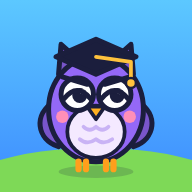
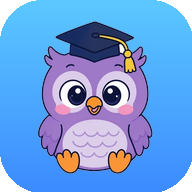
Pratinjau tautan (Open Graph) untuk WhatsApp dkk. + ikon aplikasi Uli baru
Claude-Session: https://claude.ai/code/session_01CYnEYfHgLVhLvxdkxWB87V

diff --git a/index.html b/index.html
@@ -5,6 +5,17 @@
 <title>JELAS · Jelajah Kelas</title>
 <meta name="description" content="JELAS (Jelajah Kelas): belajar seru sambil main, dari TK sampai SMA/SMK. Guru bisa memantau perkembangan murid.">
 <meta name="theme-color" content="#3D8BFF">
+<meta property="og:type" content="website">
+<meta property="og:site_name" content="JELAS">
+<meta property="og:title" content="JELAS · Jelajah Kelas">
+<meta property="og:description" content="Belajar seru sambil main, dari TK sampai SMA/SMK. Gratis untuk murid dan guru.">
+<meta property="og:url" content="https://jelajahkelas.github.io/">
+<meta property="og:image" content="https://jelajahkelas.github.io/icons/og.png?v=1">
+<meta property="og:image:width" content="1200">
+<meta property="og:image:height" content="630">
+<meta property="og:image:alt" content="Uli si burung hantu, maskot JELAS">
+<meta name="twitter:card" content="summary_large_image">
+<meta name="twitter:image" content="https://jelajahkelas.github.io/icons/og.png?v=1">
 <link rel="manifest" href="manifest.webmanifest">
 <link rel="icon" type="image/png" href="icons/icon-192.png">
 <link rel="apple-touch-icon" href="icons/icon-192.png">
@@ -3555,7 +3566,7 @@ html[data-theme=malam] .plstick{background:#0a0f1e}
 <div class="syncpill" id="syncPill" hidden></div>
 <div class="toast" id="toast" hidden></div>
 
-<script src="av.js?v=175"></script>
+<script src="av.js?v=176"></script>
 <script>
 /* ---------- visual assets ---------- */
 const INK='#1B1E3D';
@@ -10458,7 +10469,7 @@ function folBind(root,list,after){root.querySelectorAll('[data-follow]').forEach
   try{await folDo(f,on);if(on){try{sfx.ok()}catch(_){}toast('team',`Kamu mengikuti ${f.name}.`)}b.outerHTML=folBtn(f,b.classList.contains('sm'));folBind(root,list,after);after&&after()}catch(err){b.disabled=false;toast('lock',fbErr(err))}})}
 const shareIcon='<svg viewBox="0 0 24 24" width="24" height="24" aria-hidden="true"><path d="M12 3 V15 M7 8 L12 3 L17 8 M5 13 V19 C5 20 6 21 7 21 H17 C18 21 19 20 19 19 V13" fill="none" stroke="currentColor" stroke-width="2.4" stroke-linecap="round" stroke-linejoin="round"/></svg>';
 const qrIcon='<svg viewBox="0 0 24 24" width="26" height="26" aria-hidden="true" fill="none" stroke="currentColor" stroke-width="2.4" stroke-linejoin="round"><rect x="3" y="3" width="7" height="7" rx="2"/><rect x="14" y="3" width="7" height="7" rx="2"/><rect x="3" y="14" width="7" height="7" rx="2"/><path d="M14 14h3v3h-3zM18 18h3v3h-3zM18 14h3M14 18v3" stroke-linecap="round"/></svg>';
-let QRP=null;function loadQR(){return QRP||(QRP=new Promise((ok,no)=>{if(window.QRCodeLib)return ok();const sc=document.createElement('script');sc.src='lib/qr.js?v=175';sc.onload=()=>ok();sc.onerror=()=>{QRP=null;no(new Error('qr'))};document.head.appendChild(sc)}))}
+let QRP=null;function loadQR(){return QRP||(QRP=new Promise((ok,no)=>{if(window.QRCodeLib)return ok();const sc=document.createElement('script');sc.src='lib/qr.js?v=176';sc.onload=()=>ok();sc.onerror=()=>{QRP=null;no(new Error('qr'))};document.head.appendChild(sc)}))}
 function qrMatrix(text){const Q=window.QRCodeLib,q=new Q(-1,Q.ECL.M);q.addData(text);q.make();const n=q.getModuleCount(),m=[];for(let r=0;r<n;r++){m.push([]);for(let c=0;c<n;c++)m[r].push(q.isDark(r,c))}return m}
 function qrSvgOf(m){const n=m.length;let d='';for(let r=0;r<n;r++)for(let c=0;c<n;c++)if(m[r][c])d+=`M${c} ${r}h1.02v1.02h-1.02z`;
   return `<svg viewBox="-2 -2 ${n+4} ${n+4}" class="pcqr" shape-rendering="crispEdges" aria-label="Kode QR profil"><rect x="-2" y="-2" width="${n+4}" height="${n+4}" fill="#fff"/><path d="${d}" fill="#1C1E3D"/></svg>`}

diff --git a/sw.js b/sw.js
@@ -1,5 +1,5 @@
 // Selalu ambil versi terbaru dari internet; pakai salinan tersimpan hanya saat offline.
-const CACHE = 'jelajah-kelas-v175';
+const CACHE = 'jelajah-kelas-v176';
 self.addEventListener('install', e => self.skipWaiting());
 // Hapus salinan versi lama supaya penyimpanan di HP tidak menumpuk setiap kali aplikasi diperbarui.
 self.addEventListener('activate', e => e.waitUntil(caches.keys().then(ks => Promise.all(ks.filter(k => k !== CACHE).map(k => caches.delete(k)))).then(() => self.clients.claim())));
